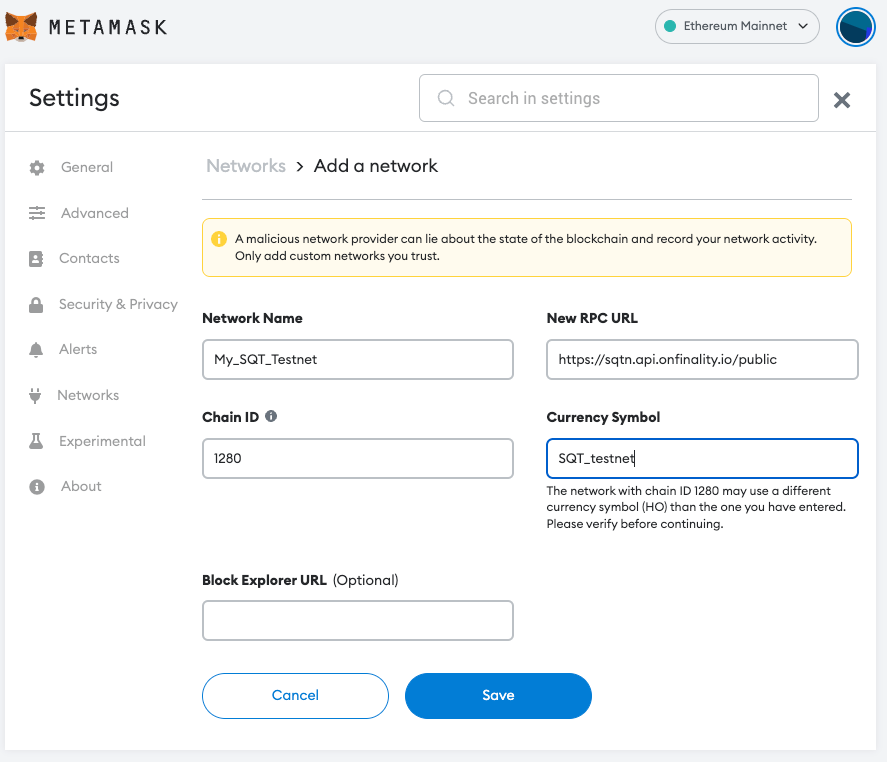
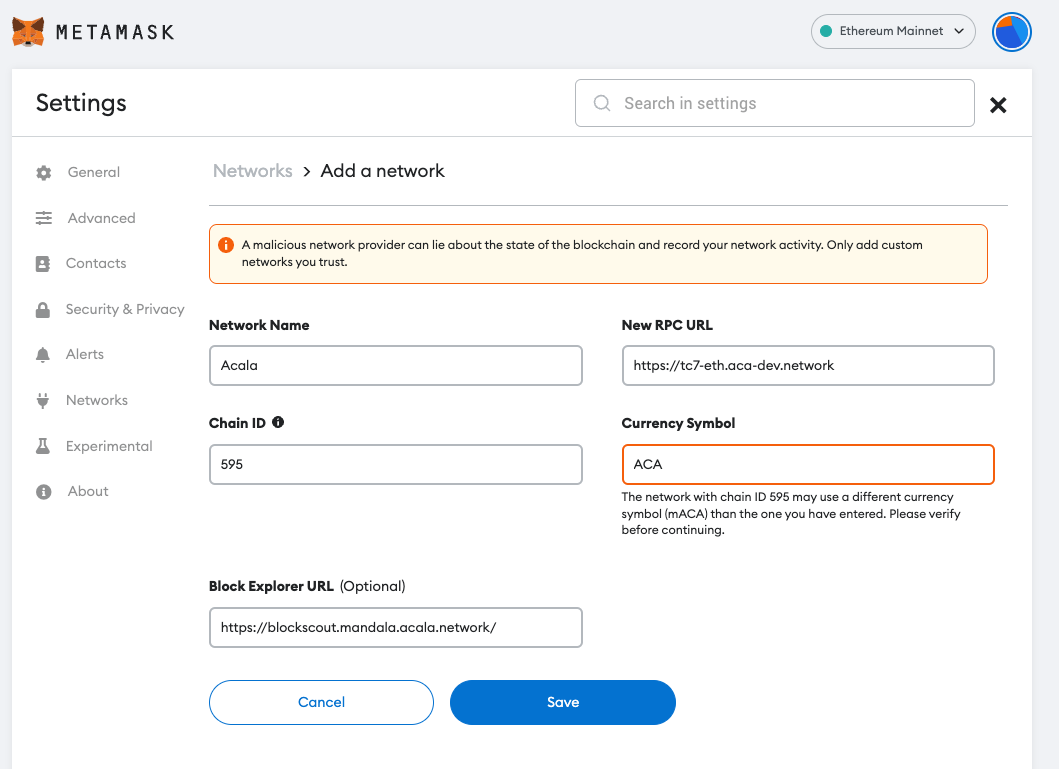
Updates Metamask network configs

diff --git a/docs/subquery_network/testnet/metamask/connect-metamask.md b/docs/subquery_network/testnet/metamask/connect-metamask.md
@@ -31,9 +31,11 @@ Once MetaMask is installed, select the network dropdown and click “Add Network
 
 Now, fill in the network details with the following:
 
-1. Network Name: \<name\>
-2. New RPC URL: [https://sqtn.api.onfinality.io/public](https://sqtn.api.onfinality.io/public)
-3. Chain ID: 1280
+1. Network Name: Acala
+2. New RPC URL: https://tc7-eth.aca-dev.network
+3. Chain ID: 595
+4. Currency Symbol: ACA
+5. Block Explorer URL: https://blockscout.mandala.acala.network/ (Optional)
 
 <br />
 
